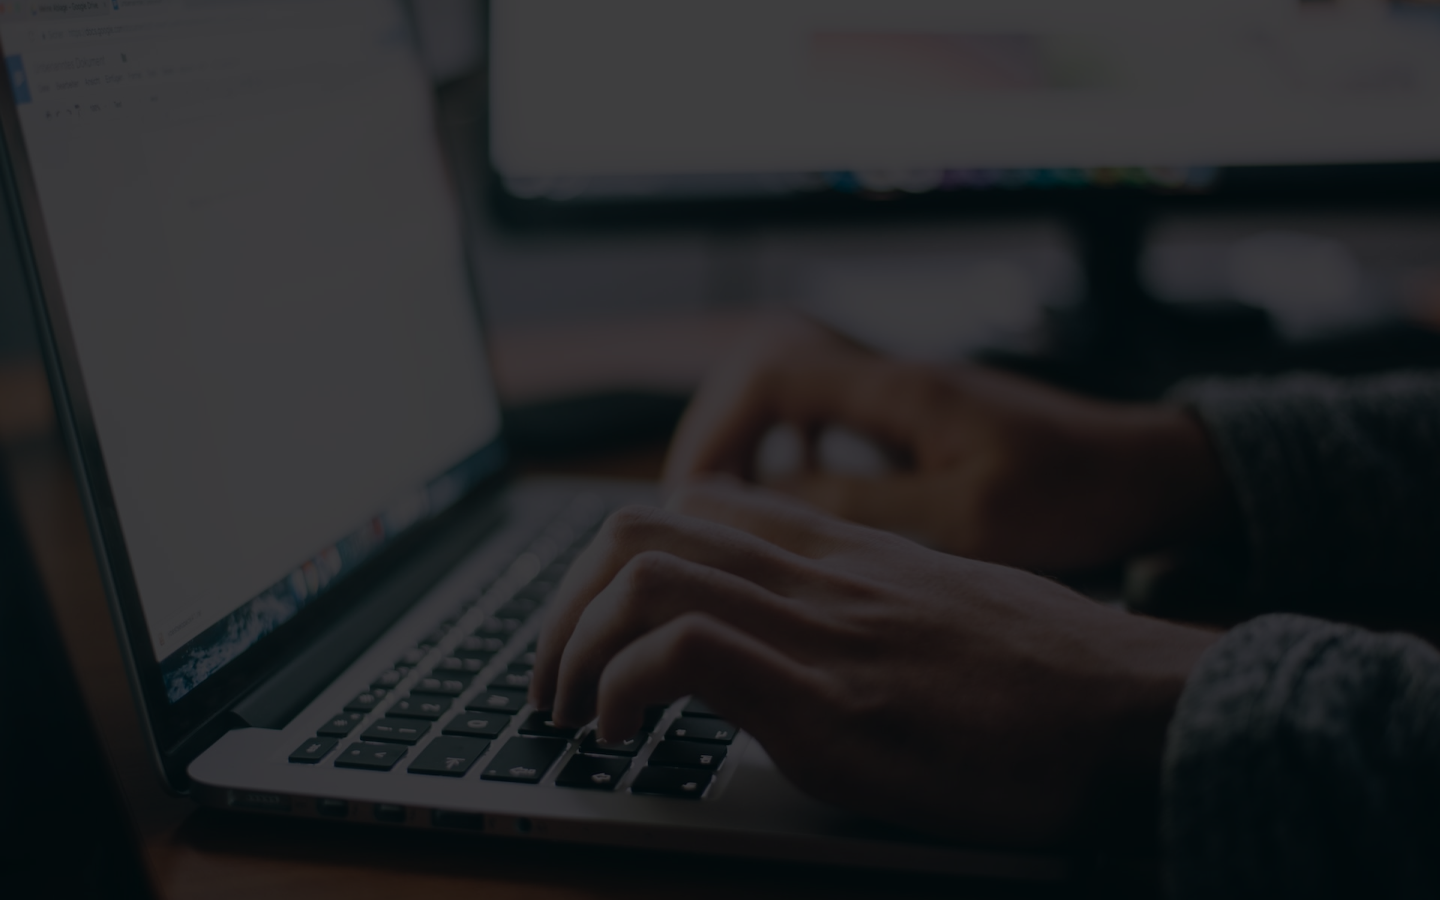
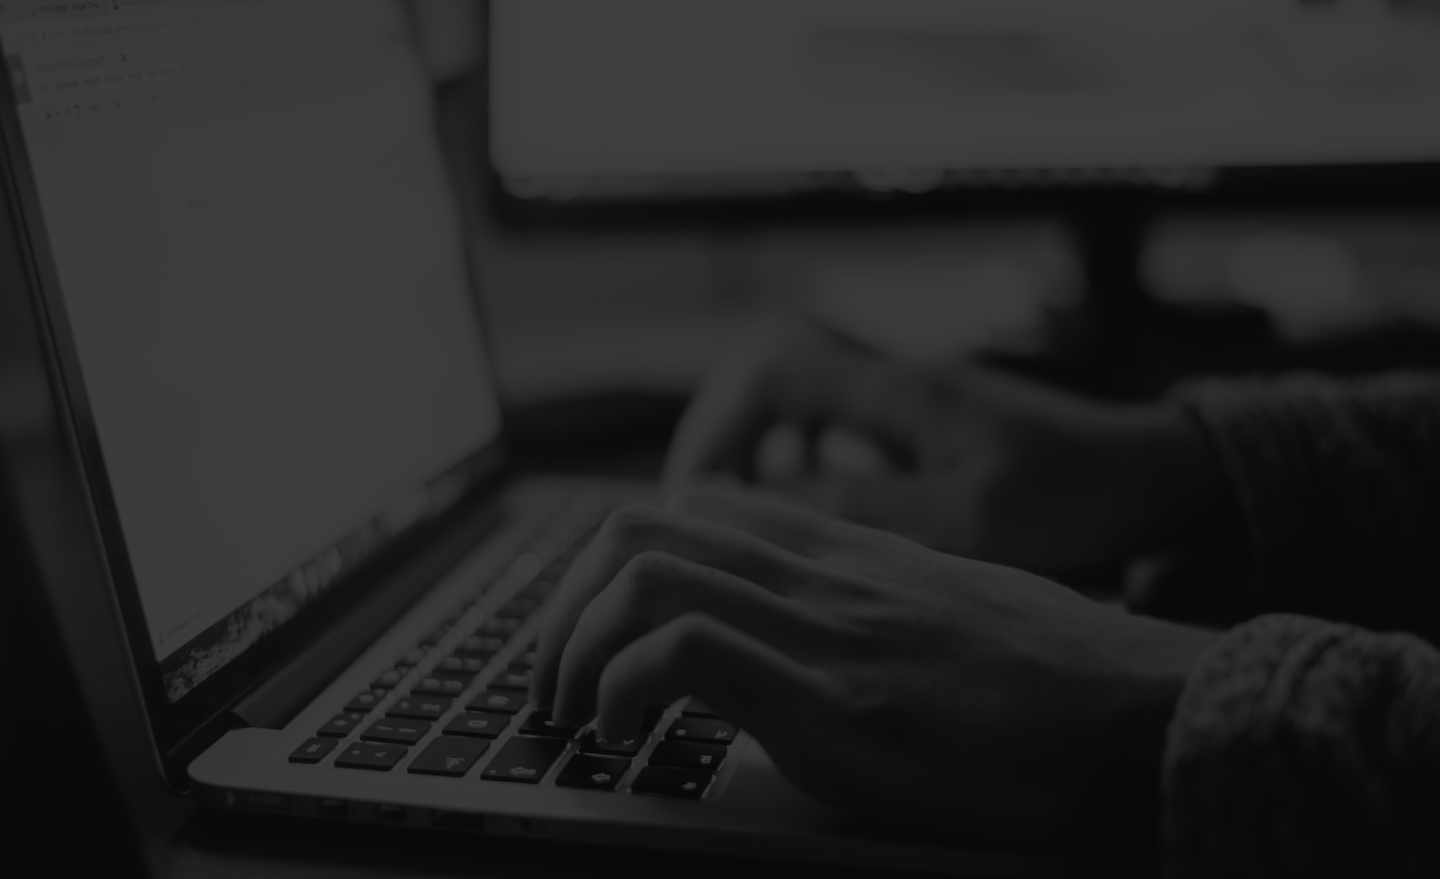
adição da sombra

diff --git a/css/home.css b/css/home.css
@@ -2,17 +2,11 @@
     display: flex;
     justify-content: center;
     align-items: center;
-}
-
-.home::before{
-    content: " ";
-    position: absolute;
     width: 100%;
-    height: 100%;
     background-image: url(../img/background.png);
     background-repeat: no-repeat;
     background-size: cover;
-    filter: grayscale(100%);
+    box-shadow: inset 0px -40px 40px #000;
 }
 .profile{
     z-index: 1;
